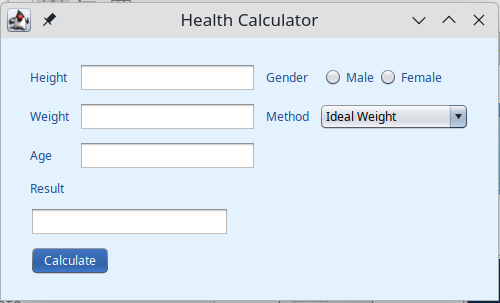
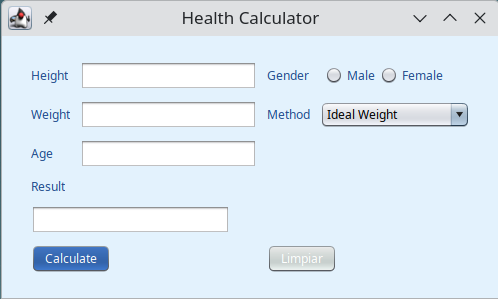
disenos actualizados

diff --git a/src/main/java/healthcalc/gui/vista.java b/src/main/java/healthcalc/gui/vista.java
@@ -144,7 +144,17 @@ public class vista extends JFrame {
 
         
         bclear = new JButton("Limpiar");
-        bclear.setBackground(new Color(31, 74, 137)); // Azul oscuro
+        String hex = "9CAFAA";
+        int rgb = Integer.parseInt(hex, 16);
+        
+        // Extraer los componentes R, G, B
+        int red = (rgb >> 16) & 0xFF;
+        int green = (rgb >> 8) & 0xFF;
+        int blue = rgb & 0xFF;
+        
+        // Crear un objeto Color
+        Color color = new Color(red, green, blue);
+        bclear.setBackground(color); // Azul oscuro
         bclear.setForeground(Color.WHITE);
         constraints.gridx = 2;
         constraints.gridy = 5;
